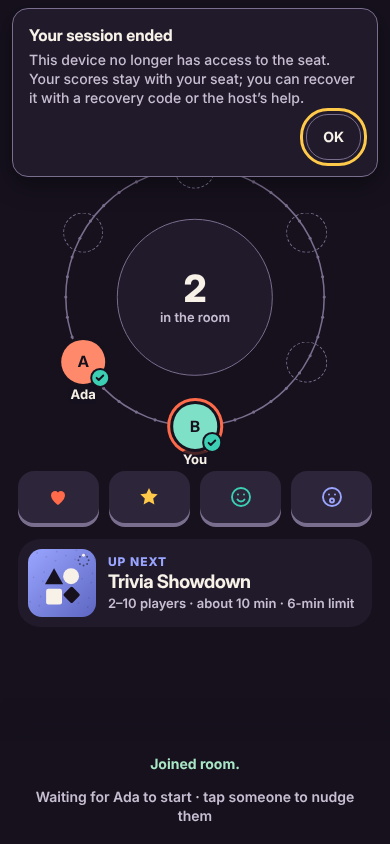
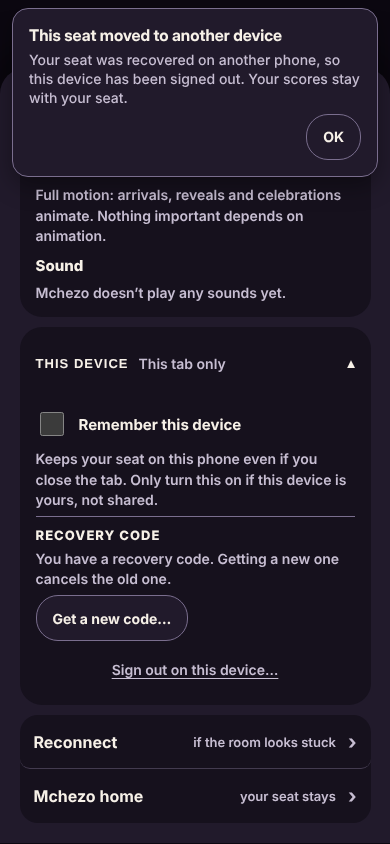
Seat recovery: the old phone keeps saying its seat moved
check-recovery (Stage 2 branch) showed the old phone switching from "This
seat moved to another device" to the generic "Your session ended": the
server closes the old socket with 4001, then the old phone's next poll is
refused with 401, and that second, less specific reason overwrote the first.
Pre-existing since Sprint 2; the driver passed only when it read the banner
inside the two seconds between the two. A moved seat now keeps its
explanation. Unit test: tests/connection-store.test.ts.

Claude-Session: https://claude.ai/code/session_014473ur3uGXQG46pcRBhZVg

diff --git a/tests/connection-store.test.ts b/tests/connection-store.test.ts
@@ -1,0 +1,41 @@
+/**
+ * The phone's own account of why it lost its seat (connectionStore).
+ *
+ * Found by check-recovery on the Stage 2 branch: after a seat is recovered on
+ * a new phone, the server closes the old phone's socket with 4001 ("This seat
+ * moved to another device"), and the old phone's next 2-second poll is then
+ * refused with 401. That 401 used to overwrite the specific explanation with
+ * the generic "Your session ended" within two seconds. The driver passed
+ * before only when it happened to read the banner inside that window.
+ */
+import { beforeEach, describe, expect, it } from "vitest";
+import { connection } from "../apps/web/src/connectionStore.js";
+
+describe("connection store: why this device lost its seat", () => {
+  beforeEach(() => connection.reset());
+
+  it("a seat that moved to another device stays 'moved' when a later poll is refused", () => {
+    connection.replaced();
+    connection.signedOut();
+    expect(connection.get().state).toBe("replaced");
+  });
+
+  it("a credential refused for any other reason still reads as signed out", () => {
+    connection.signedOut();
+    expect(connection.get().state).toBe("signed-out");
+  });
+
+  it("a moved seat explains itself even after an earlier generic refusal", () => {
+    connection.signedOut();
+    connection.replaced();
+    expect(connection.get().state).toBe("replaced");
+  });
+
+  it("dropping the socket after either ending changes nothing; acknowledging (reset) clears it", () => {
+    connection.replaced();
+    connection.dropped();
+    expect(connection.get().state).toBe("replaced");
+    connection.reset();
+    expect(connection.get().state).toBe("online");
+  });
+});

diff --git a/apps/web/src/connectionStore.ts b/apps/web/src/connectionStore.ts
@@ -48,8 +48,16 @@ export const connection = {
   },
   /** The seat was recovered on another device (server close 4001). */
   replaced(): void { clearTimeout(restoredTimer); emit({ state: "replaced", droppedAt: null }); },
-  /** The server no longer accepts this credential (1008 / 401). */
-  signedOut(): void { clearTimeout(restoredTimer); emit({ state: "signed-out", droppedAt: null }); },
+  /**
+   * The server no longer accepts this credential (1008 / 401). A seat that
+   * already moved to another device keeps that more specific explanation: the
+   * old phone's next poll is always refused afterwards.
+   */
+  signedOut(): void {
+    if (snapshot.state === "replaced") return;
+    clearTimeout(restoredTimer);
+    emit({ state: "signed-out", droppedAt: null });
+  },
   reset(): void { clearTimeout(restoredTimer); emit({ state: "online", droppedAt: null }); },
   setHandlers(h: { retryNow?: () => void; acknowledge?: () => void }): void {
     if (h.retryNow !== undefined) retryNow = h.retryNow;
